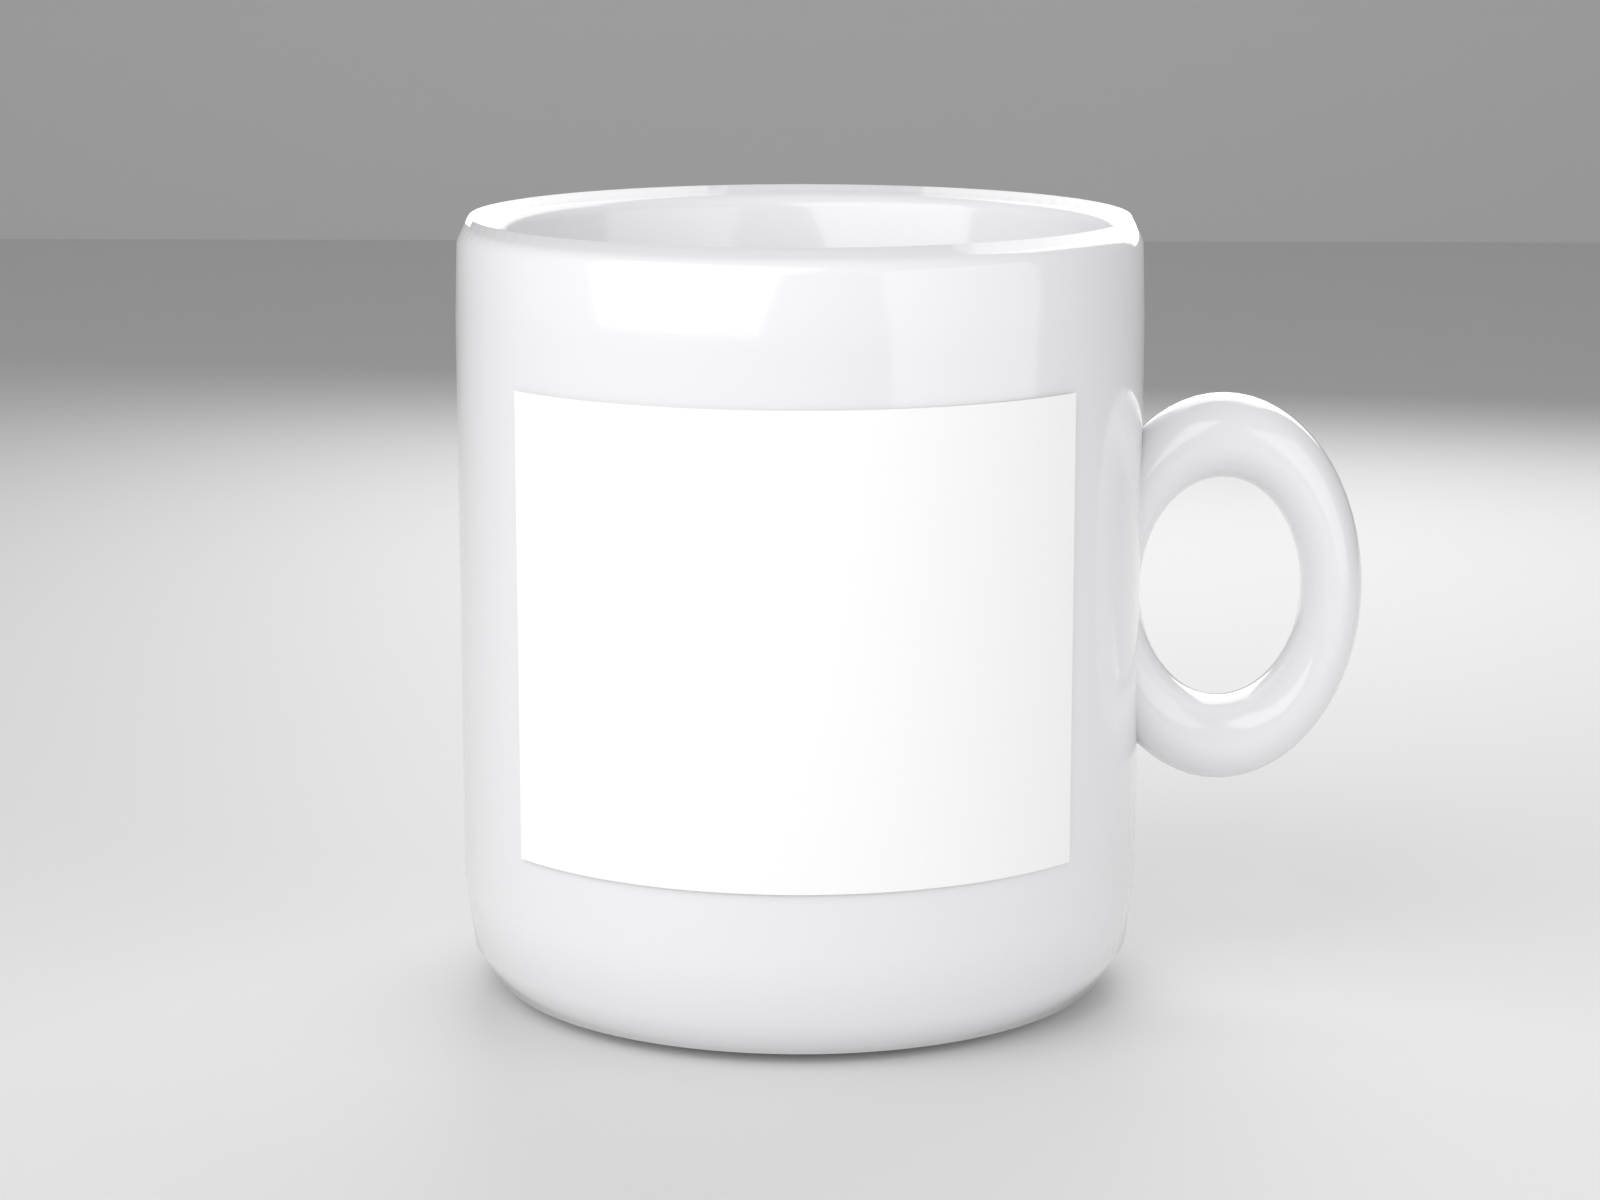
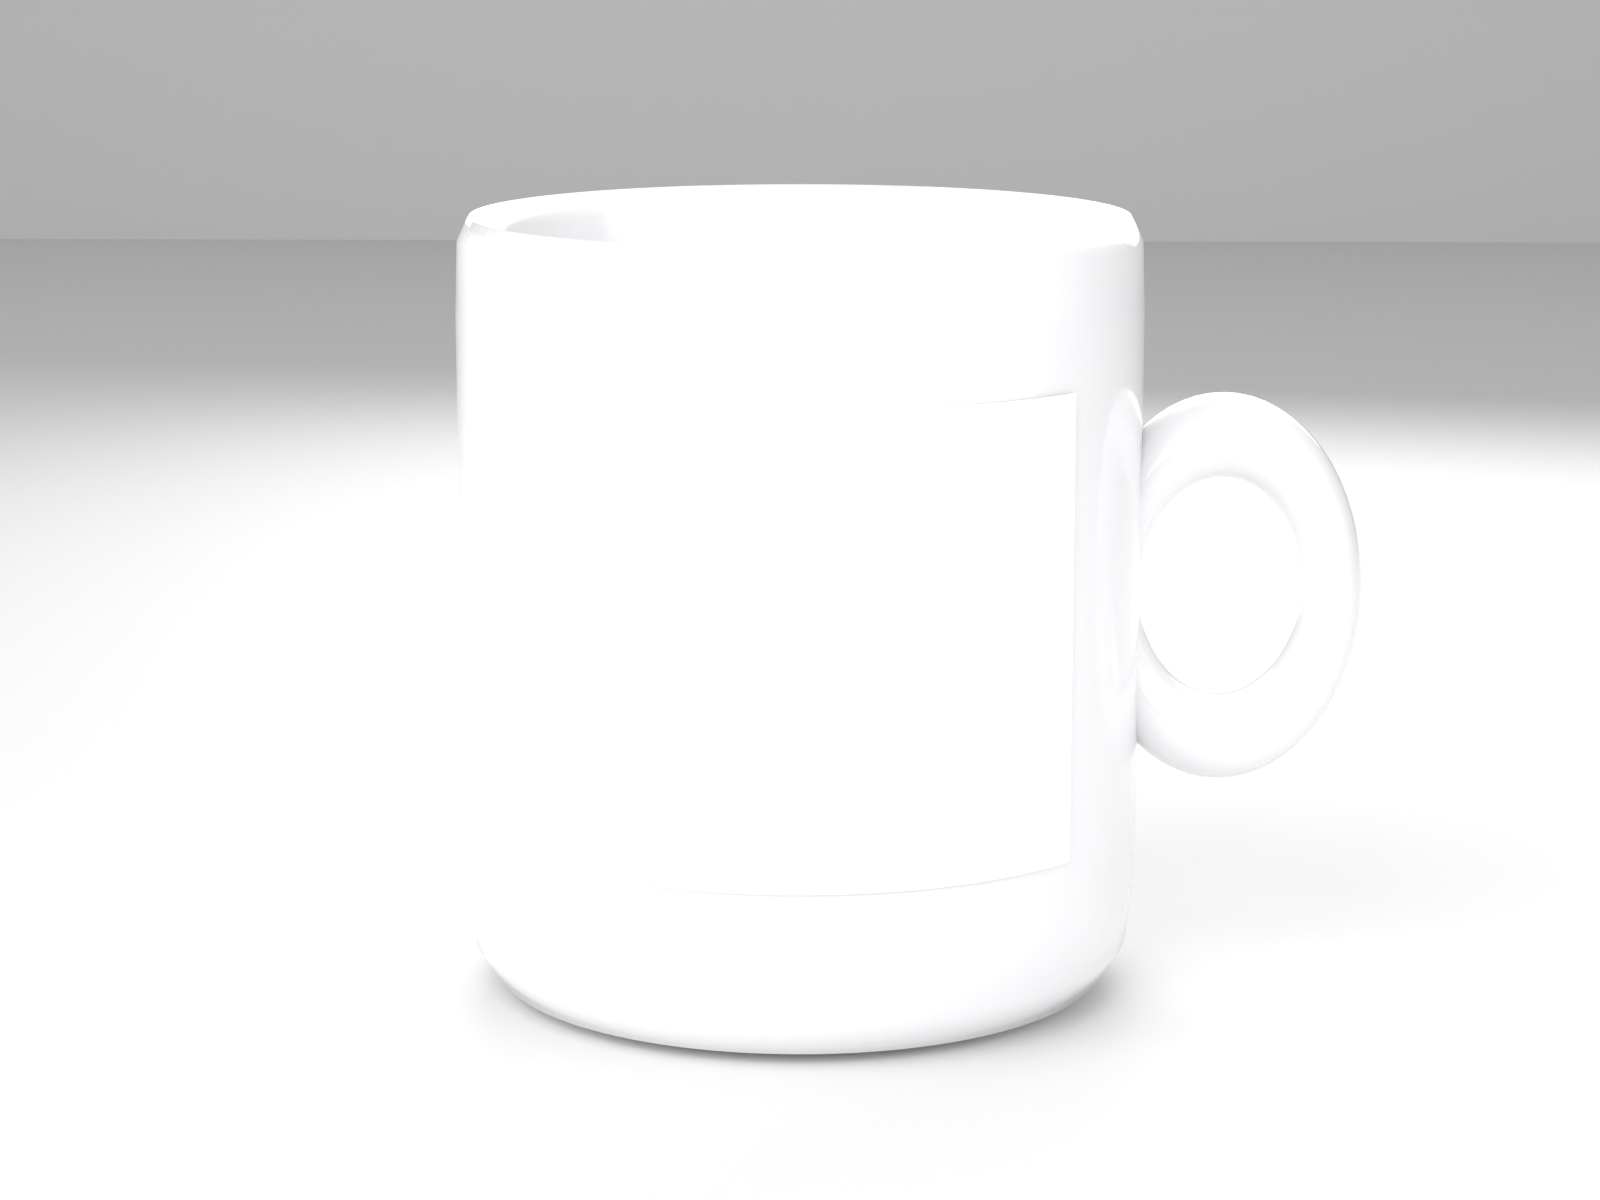
Workflow Lab: テンプレート詳細の合成中無限ループ修正+mugのロゴ拡大・背景調整

diff --git a/labs/workflow/components/WorkflowTemplateInspector.tsx b/labs/workflow/components/WorkflowTemplateInspector.tsx
@@ -50,6 +50,12 @@ export default function WorkflowTemplateInspector({
 
   const techNotes = useMemo(() => templateTechNotes(template), [template]);
 
+  // Keep the latest callback without making it a compose dependency — the
+  // parent passes a fresh closure each render, and depending on it here would
+  // loop: compose → onComposed → parent re-render → new closure → compose.
+  const onComposedRef = useRef(onComposed);
+  onComposedRef.current = onComposed;
+
   useEffect(() => {
     const controller = new AbortController();
     const options: ComposeOptions = {
@@ -69,7 +75,7 @@ export default function WorkflowTemplateInspector({
           setUrl(result.url);
           setMetrics(result.metrics);
           setBusy(false);
-          onComposed();
+          onComposedRef.current();
         })
         .catch((e: unknown) => {
           if (controller.signal.aborted) return;
@@ -81,7 +87,7 @@ export default function WorkflowTemplateInspector({
       clearTimeout(timer);
       controller.abort();
     };
-  }, [template.id, logo, width, logoScale, offsetU, offsetV, colorMode, onComposed]);
+  }, [template.id, logo, width, logoScale, offsetU, offsetV, colorMode]);
 
   useEffect(
     () => () => {

diff --git a/labs/workflow/scripts/blender/make_mug_scene.py b/labs/workflow/scripts/blender/make_mug_scene.py
@@ -199,14 +199,17 @@ def main():
     world = bpy.data.worlds.new("Studio")
     world.use_nodes = True
     bg = world.node_tree.nodes["Background"]
-    bg.inputs["Color"].default_value = (0.88, 0.885, 0.90, 1.0)
-    bg.inputs["Strength"].default_value = 0.4
+    bg.inputs["Color"].default_value = (0.90, 0.905, 0.915, 1.0)
+    bg.inputs["Strength"].default_value = 0.5
     scene.world = world
 
+    # A soft top light lifts the upper backdrop out of shadow (studio sweep)
+    # without washing out the mug's own key/fill/rim modelling.
     focus = (0.0, 0.0, 0.048)
-    add_area_light("Key", (-0.22, -0.28, 0.30), focus, size=0.5, energy=1.5)
-    add_area_light("Fill", (0.32, -0.22, 0.14), focus, size=0.4, energy=0.55)
-    add_area_light("Rim", (0.06, 0.34, 0.28), focus, size=0.4, energy=1.1)
+    add_area_light("Key", (-0.22, -0.28, 0.30), focus, size=0.5, energy=2.4)
+    add_area_light("Fill", (0.32, -0.22, 0.14), focus, size=0.4, energy=0.7)
+    add_area_light("Rim", (0.06, 0.34, 0.28), focus, size=0.4, energy=1.3)
+    add_area_light("Sweep", (0.0, 0.4, 1.4), (0.0, 0.9, 1.6), size=2.0, energy=8.0)
 
     cam_data = bpy.data.cameras.new("Camera")
     cam_data.lens = 85

diff --git a/labs/workflow/scripts/blender/bake_template.py b/labs/workflow/scripts/blender/bake_template.py
@@ -233,10 +233,10 @@ def main():
             "uvWarp": {"src": "uvmap.png", "aspect": float(aspect), "light": "light.png"},
             "logo": {
                 "blend": "over",
-                "placement": {"cx": 0.5, "cy": 0.5, "width": 0.55},
-                "clearSpace": 0.15,
+                "placement": {"cx": 0.5, "cy": 0.5, "width": 0.88},
+                "clearSpace": 0.12,
                 "minWidth": 0.25,
-                "maxWidth": 0.85,
+                "maxWidth": 0.92,
             },
         },
         "impressions": ["プロダクト", "フォトリアル"],
